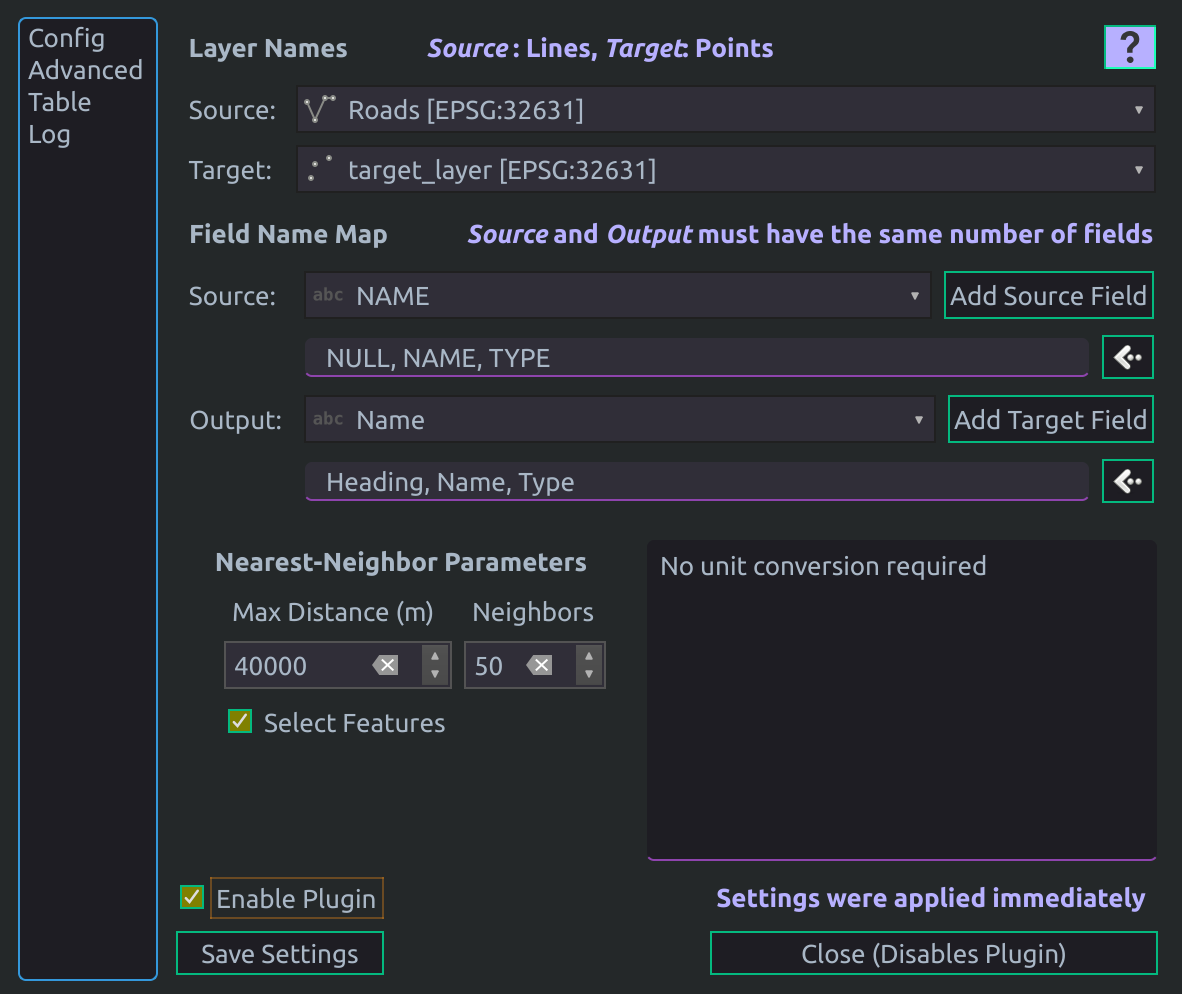
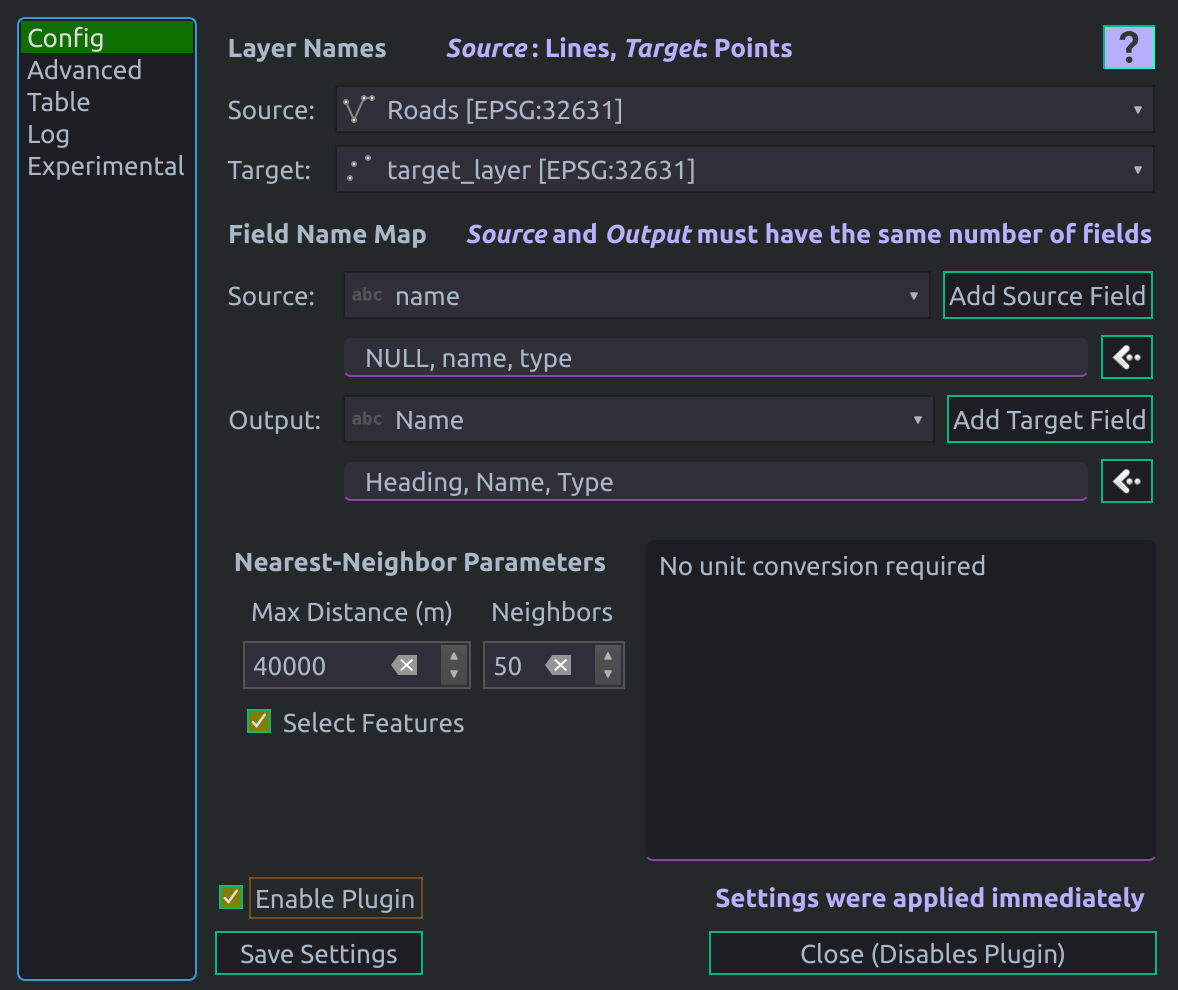
Updated readme for experimental page

diff --git a/README.md b/README.md
@@ -144,4 +144,12 @@ The plugin directory can be found from the QGIS menu bar:
       - **Save Log (Overwrite)** overwrites the existing log file.
       - **Save Log (Append)** appends to the end of the existing log file.
 
+### Experimental Settings
+  
+  <img src="img/readme/experimental_page.png" align="right" width="400">
+
+  - **Allow all source geometries**
+    - When checked **Source** layers can have any geometry.
+      - Default (unchecked) is limited to only *Line* geometry.
+
 <br clear="right"/>
